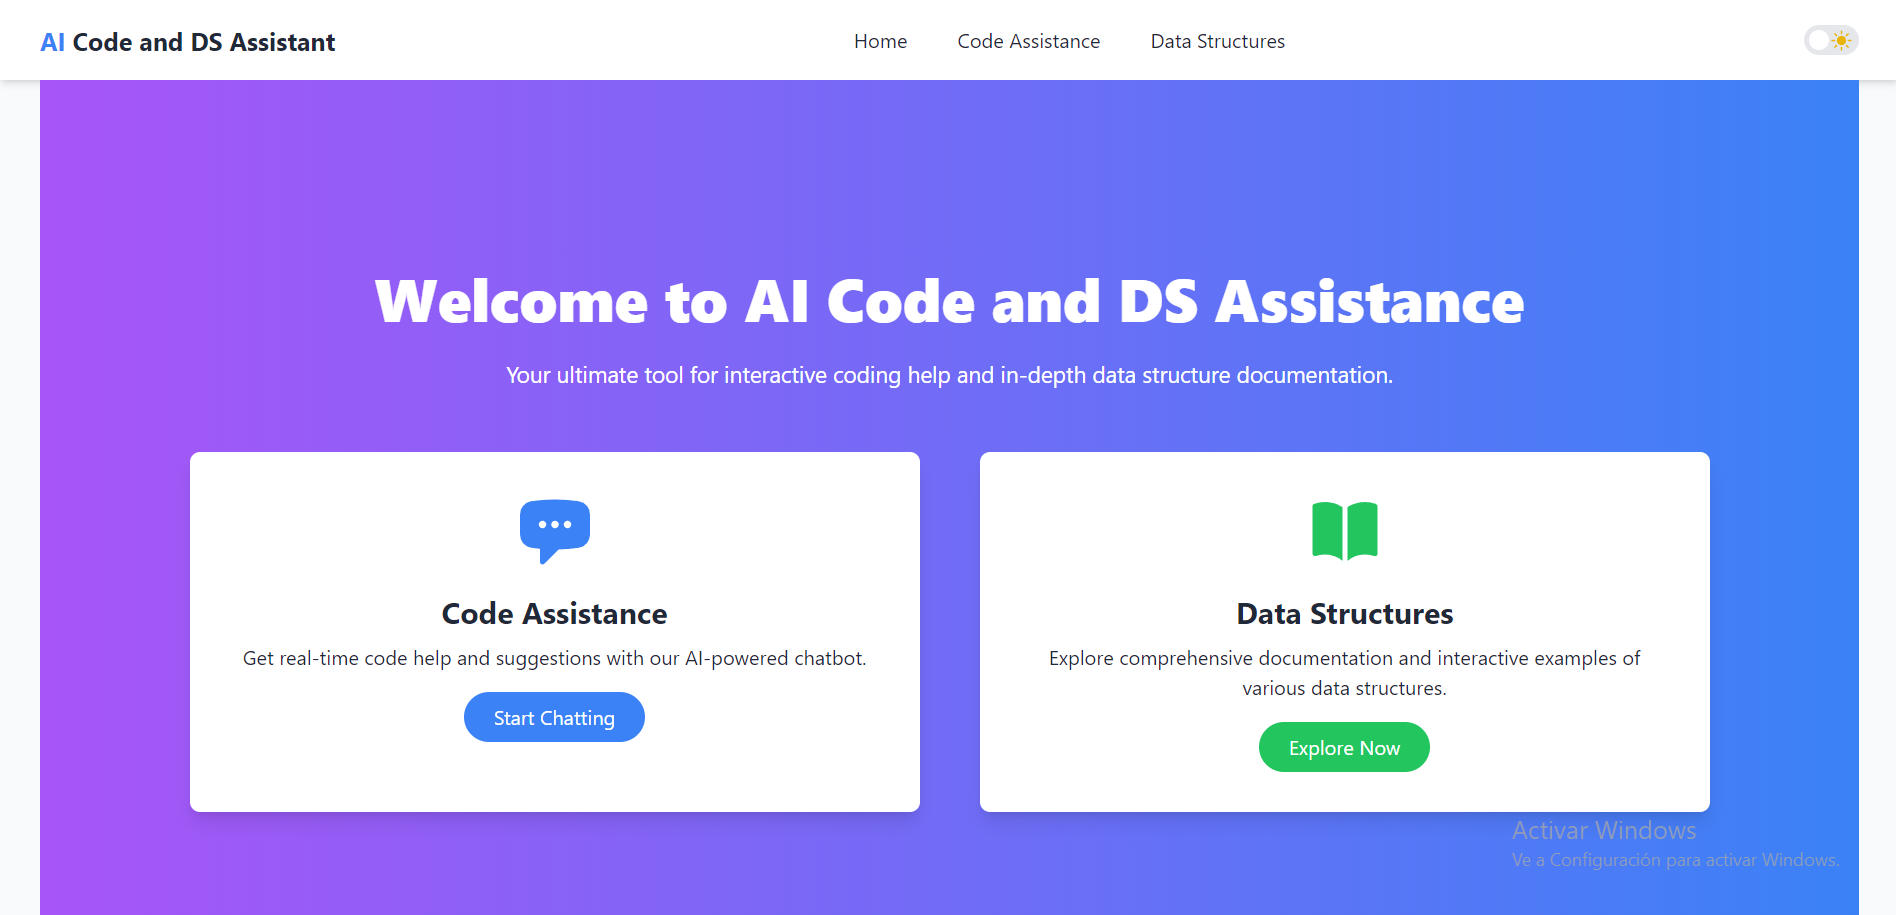
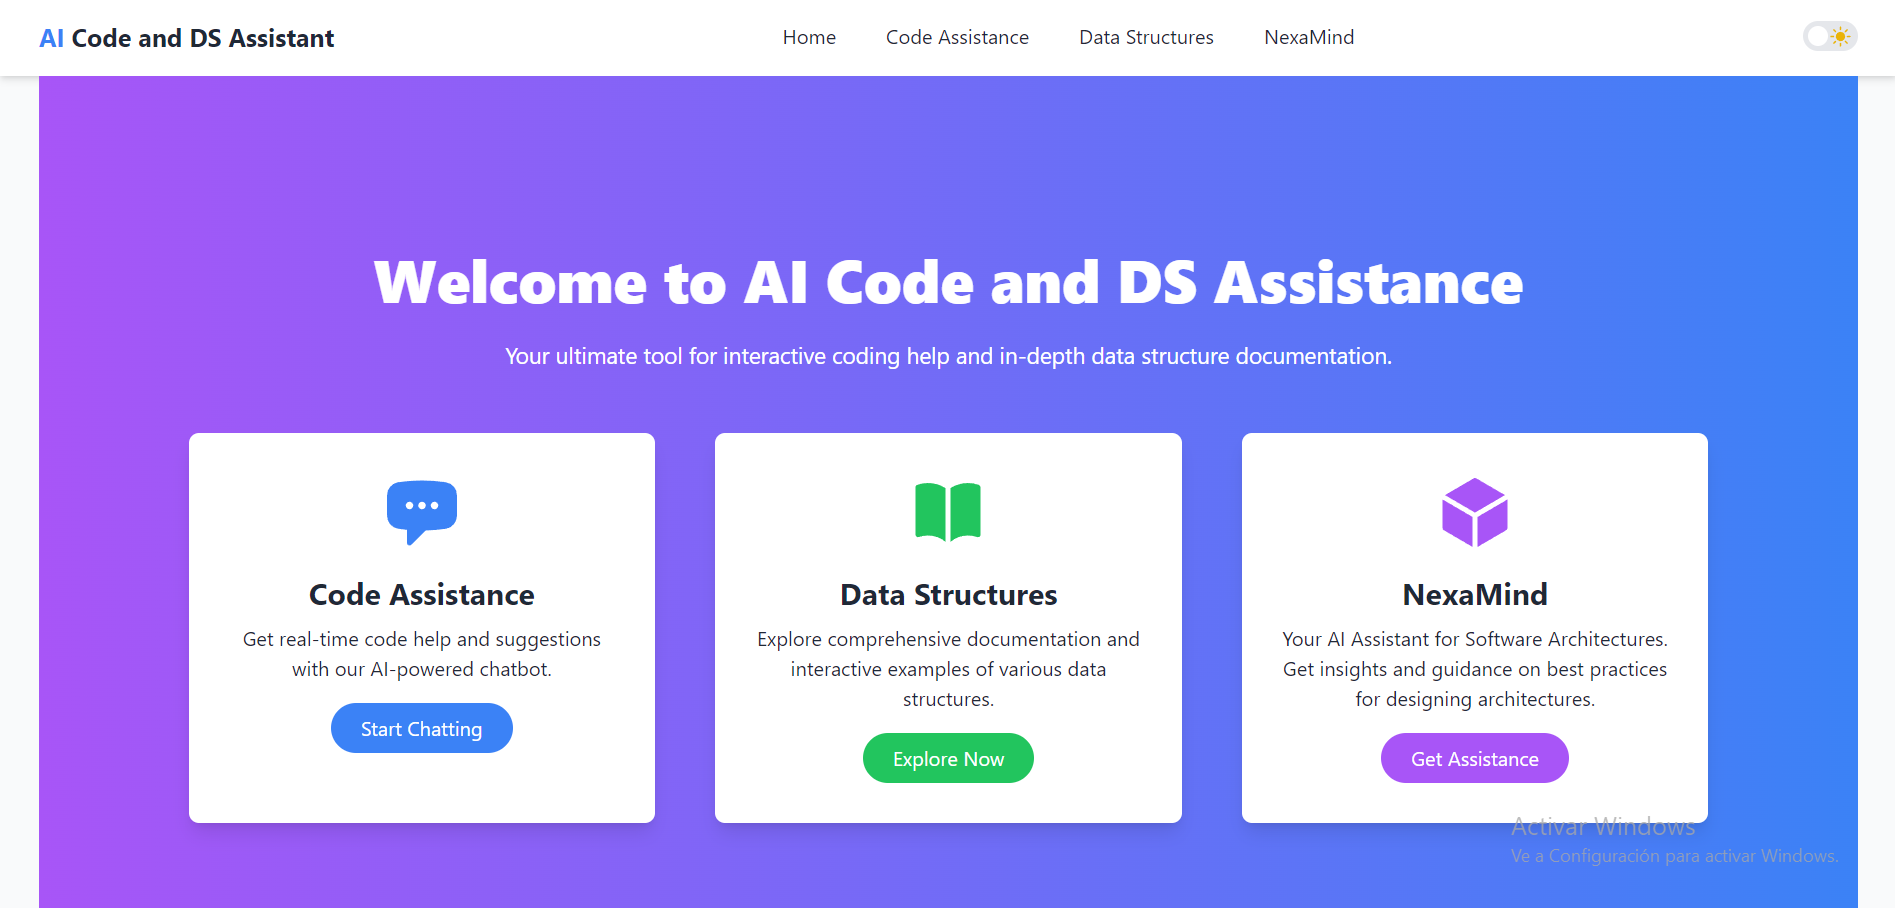
new project update 15-09-2024

diff --git a/components/Projects.tsx b/components/Projects.tsx
@@ -6,12 +6,12 @@ const Projects = () => {
   const projectData = [
     {
       "title": "AI Code and DS Assistant",
-      "description": "Developed a full-stack application designed to assist with code generation and learning of data structures (DS). The application enables users to generate code snippets and offers in-depth understanding of various data structures, including Arrays, Linked Lists, Stacks, Queues, Binary Trees, and Graphs. It features interactive learning modules powered by AI to enhance the educational experience. The frontend was built using NextJS, while the backend leveraged FastAPI, with AI capabilities integrated through Google Generative AI and LangChain for dynamic and intelligent content delivery.",
+      "description": "Developed a full-stack application designed to assist with three key services: Code Assistance (Chatbot), Data Structures (Documentation), and NexaMind (AI Assistant for Software Architecture). The application enables users to generate code snippets and offers in-depth understanding of various data structures, including Arrays, Linked Lists, Stacks, Queues, Binary Trees, and Graphs. It features interactive learning modules powered by AI to enhance the educational experience. The frontend was built using NextJS, while the backend leveraged FastAPI, with AI capabilities integrated through multimodal LLMs, LangGraph with complex graphs, and the coexistence of GPT-4o-mini and Google Gemini for dynamic and intelligent content delivery.",
       "image": "/ai-code-ds-assistant.png",
       "repoLink": "https://github.com/AaronSosaRamos/ai-code-ds-assistant-frontend",
       "liveDemoLink": "https://ai-code-ds-assistant-frontend.vercel.app/",
       "videoLink": "https://www.youtube.com/channel/UC8Vle-7wLnxVQpc2y_K3kLQ",
-      "techImages": ["/nextjs.png", "/vercel.png", "/python.png", '/docker.png', "/fastapi.svg", "/vertexai.png", "/langchain.png", '/render.svg'],
+      "techImages": ["/nextjs.png", "/react.png", "/vercel.png", "/redux.png", "/python.png", '/docker.png', "/fastapi.svg", "/vertexai.png", "/openai.png", "/langchain.png", "/google.png", '/render.svg'],
       "hasLiveDemo": true
     },    
     {
